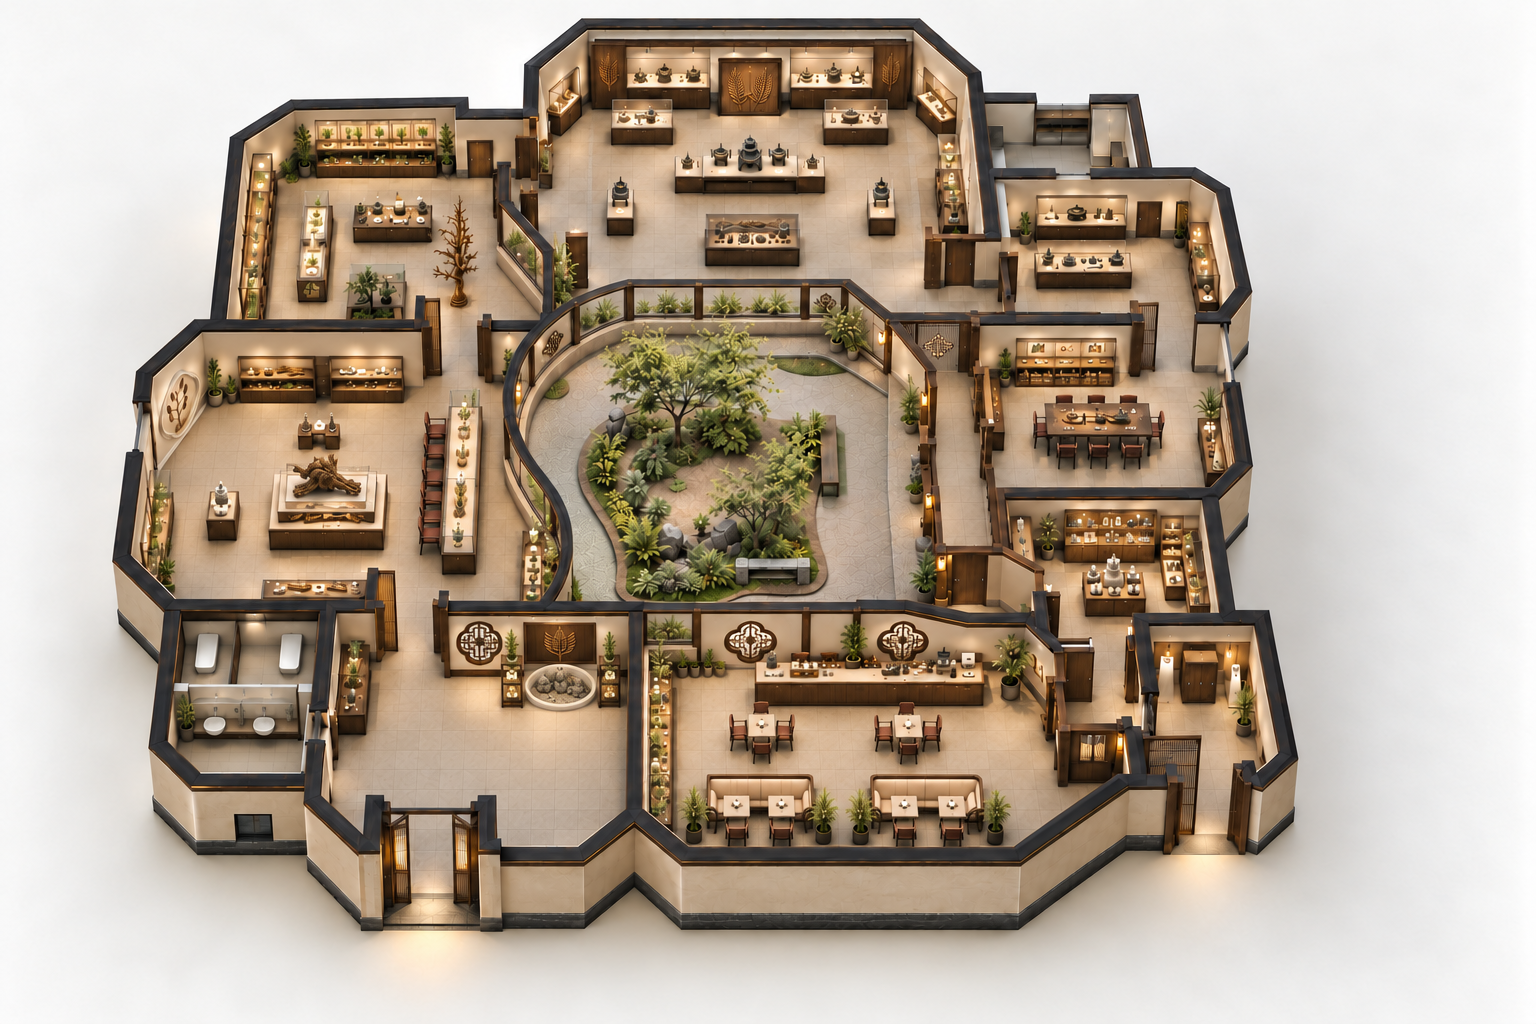
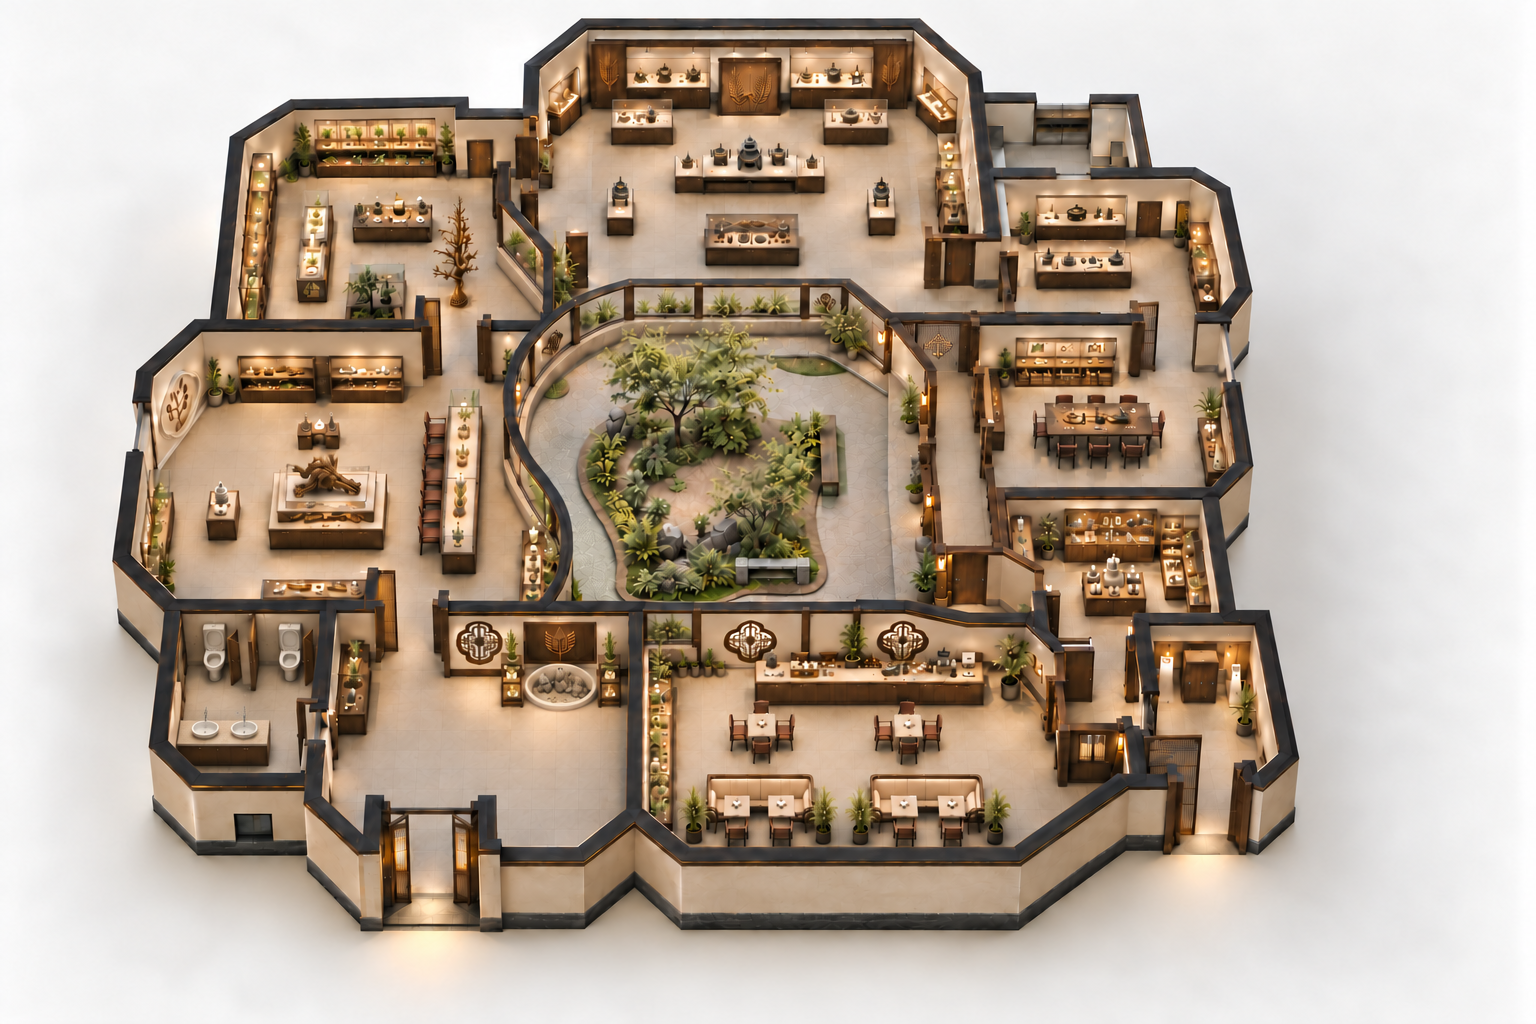
Refine restroom layout in current birds-eye image

diff --git a/catalog.js b/catalog.js
@@ -1,1 +1,1 @@
[2 lines of base64/hex data omitted]

diff --git a/browse.js b/browse.js
@@ -1,8 +1,8 @@
 (()=>{'use strict';const D=window.GX_CATALOG,$=s=>document.querySelector(s);let view='精选',page=1;const size=24;
 const e=s=>String(s).replace(/[&<>"']/g,c=>({'&':'&amp;','<':'&lt;','>':'&gt;','"':'&quot;',"'":'&#39;'}[c]));const url=s=>encodeURI(s).replace(/#/g,'%23');const mb=n=>n>=1e9?(n/1e9).toFixed(2)+' GB':n>=1e6?(n/1e6).toFixed(1)+' MB':Math.max(1,Math.round(n/1000))+' KB';
 const modes=D.online?['精选','下载']:['精选','历史图片','全部文件','商家当前文件','下载'];const labels={精选:'汇报精选',历史图片:'历史图片',全部文件:'全部文件',商家当前文件:'商家当前文件',下载:'分类下载'};
-$('#edition').textContent=D.online?'当前效果预览 · r44':'本地归档 · 2026.10.20';$('#hero').src=url(D.hero);$('#hero-link').href=url(D.heroOriginal);$('#current').href=url(D.current);$('#tabs').innerHTML=modes.map(v=>`<button type="button" data-view="${v}" aria-pressed="${v===view}">${labels[v]}</button>`).join('');
-if(D.online){$('.lead p').textContent='依照当前布局调整寻香展陈、咖啡座席、入口与回廊，保留庭院树木和绿植。下方可继续查看当前模型与图纸。';$('#footer-note').textContent='在线只呈现当前成果；完整分类目录与历史版本保存在本地。'}
+$('#edition').textContent=D.online?'当前效果预览 · r45':'本地归档 · 2026.10.20';$('#hero').src=url(D.hero);$('#hero-link').href=url(D.heroOriginal);$('#current').href=url(D.current);$('#tabs').innerHTML=modes.map(v=>`<button type="button" data-view="${v}" aria-pressed="${v===view}">${labels[v]}</button>`).join('');
+if(D.online){$('.lead p').textContent='优化左下角卫生间的两个独立厕位、双盆洗手台和共用通道。保留庭院树木绿植及全馆主要布局。';$('#footer-note').textContent='在线只呈现当前成果；完整分类目录与历史版本保存在本地。'}
 function choose(v){view=v;page=1;$('#search').value='';$('#type').innerHTML='<option value="">全部类型</option>';$('#stage').innerHTML='<option value="">全部版本</option>';for(const b of $('#tabs').children)b.setAttribute('aria-pressed',b.dataset.view===view);let subset=view==='历史图片'?D.files.filter(f=>f.image&&!f.featured):view==='精选'?D.files.filter(f=>f.featured):view==='商家当前文件'?D.files.filter(f=>f.merchant):D.files;
  const cats=[...new Set(subset.map(f=>f.category))].sort(),stages=[...new Set(subset.map(f=>f.stage))].sort((a,b)=>(parseInt(b.match(/M(\d+)/)?.[1])||0)-(parseInt(a.match(/M(\d+)/)?.[1])||0));$('#type').innerHTML+=cats.map(v=>`<option value="${e(v)}">${e(v)}</option>`).join('');$('#stage').innerHTML+=stages.map(v=>`<option value="${e(v)}">${e(v)}</option>`).join('');$('#filters').hidden=view==='下载';$('#stage-label').hidden=view==='精选'||view==='商家当前文件';render();}
 function render(){const terms=$('#search').value.trim().toLowerCase().split(/\s+/).filter(Boolean),cat=$('#type').value,st=$('#stage').value;$('#view-title').textContent=labels[view];$('#view-note').textContent=({精选:'r43 当前成果：11张模型图、13张图纸。点击查看原图。',历史图片:'按版本和图片类别查找；概念审核图与模型预览分别标注。',全部文件:'按类型分类，再分版本。文件名保留内容与原版本。',商家当前文件:'优先交接 r43。包含实际尺寸和1:100模型、CAD、PDF及尺寸清单。',下载:D.online?'当前图片与CAD可在线下载；完整模型及历次分类大包保存在本地。':'按类型下载；在同一目录解压，可保持目录和跨类链接。'})[view];

diff --git a/index.html b/index.html
@@ -1,8 +1,8 @@
-<!doctype html><html lang="zh-CN"><head><meta charset="utf-8"><meta name="viewport" content="width=device-width,initial-scale=1"><title>莞香展馆 · 成果目录</title><link rel="stylesheet" href="browse.css"></head><body data-release="M59-r44-20261020"><main>
+<!doctype html><html lang="zh-CN"><head><meta charset="utf-8"><meta name="viewport" content="width=device-width,initial-scale=1"><title>莞香展馆 · 成果目录</title><link rel="stylesheet" href="browse.css"></head><body data-release="M60-r45-20261020"><main>
 <header><h1>莞香展馆 · 成果目录</h1><span id="edition">本地归档 · 2026.10.20</span></header>
-<section class="lead"><figure><a id="hero-link" href="#"><img id="hero" alt="莞香展馆当前布局鸟瞰，保留庭院树木与绿植" width="1536" height="1024"></a><figcaption>当前布局 · 树木绿植保留</figcaption></figure><div><h2>当前布局，<br>保留树木绿植。</h2><p>精选图用于汇报；模型与 CAD 用于制作核对。按类型、版本查找，随时回到当前成果。</p><p class="facts">底板 600 × 400 mm<br>微缩比例 1:100 · 全馆去顶</p><a class="button" href="assets/current-layout-green.png" download>下载本次原图</a> <a id="current" class="button" href="#">查看当前模型与图纸</a><p class="quiet">本图用于效果审核；原生模型与配套图纸仍为 r43。</p></div></section>
+<section class="lead"><figure><a id="hero-link" href="#"><img id="hero" alt="莞香展馆当前布局鸟瞰，保留庭院树木与绿植" width="1536" height="1024"></a><figcaption>卫生间优化 · 树木绿植保留</figcaption></figure><div><h2>厕位与洗手区，<br>布局更自然。</h2><p>精选图用于汇报；模型与 CAD 用于制作核对。按类型、版本查找，随时回到当前成果。</p><p class="facts">底板 600 × 400 mm<br>微缩比例 1:100 · 全馆去顶</p><a class="button" href="assets/current-layout-green.png?v=r45" download>下载本次原图</a> <a id="current" class="button" href="#">查看当前模型与图纸</a><p class="quiet">本图用于效果审核；原生模型与配套图纸仍为 r43。</p></div></section>
 <nav aria-label="成果分类" id="tabs"></nav>
 <section id="browser" aria-labelledby="view-title"><div class="section-head"><div><h2 id="view-title">汇报精选</h2><p id="view-note">当前模型与图纸，点击查看原图。</p></div><p id="count" aria-live="polite"></p></div>
 <form id="filters" role="search"><label>搜索内容<input id="search" type="search" placeholder="例如：咖啡、花窗、1比100" autocomplete="off"></label><label id="type-label">类型<select id="type"><option value="">全部类型</option></select></label><label id="stage-label">版本阶段<select id="stage"><option value="">全部版本</option></select></label><button type="reset">清除筛选</button></form>
 <div id="results"></div><div class="pagination" id="pager"><button id="prev" type="button">上一页</button><span id="page-info"></span><button id="next" type="button">下一页</button></div></section>
-<footer><p>莞香展馆 · 当前成果 r43</p><p id="footer-note">本地保留历史版本；在线仅展示当前成果。</p></footer></main><script src="catalog.js"></script><script src="browse.js"></script></body></html>
+<footer><p>莞香展馆 · 当前成果 r43</p><p id="footer-note">本地保留历史版本；在线仅展示当前成果。</p></footer></main><script src="catalog.js?v=r45"></script><script src="browse.js?v=r45"></script></body></html>
